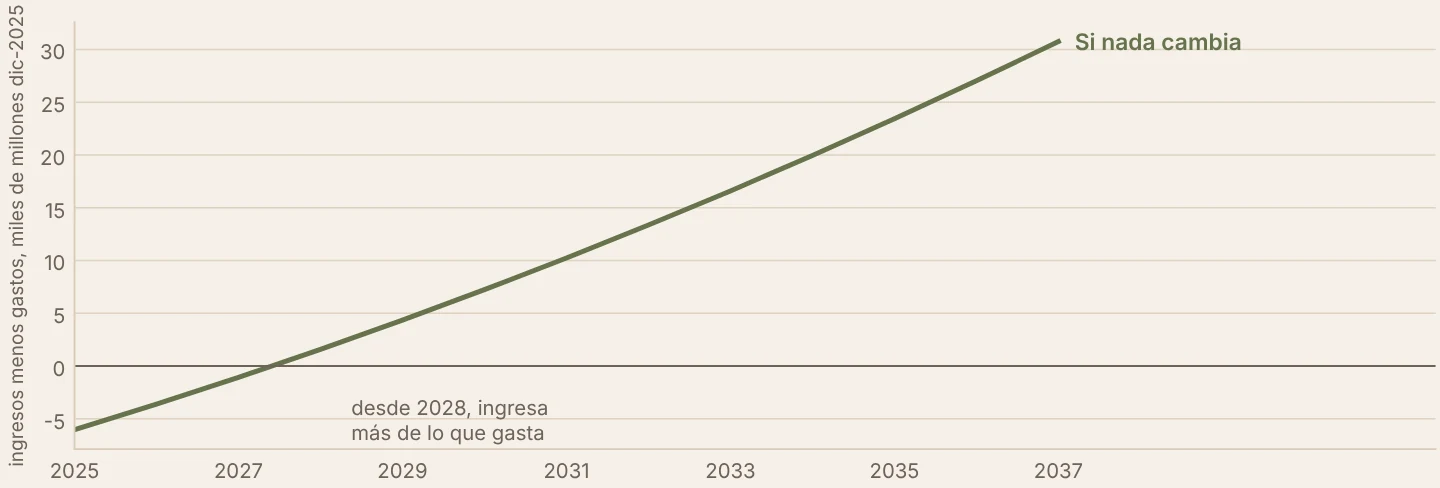
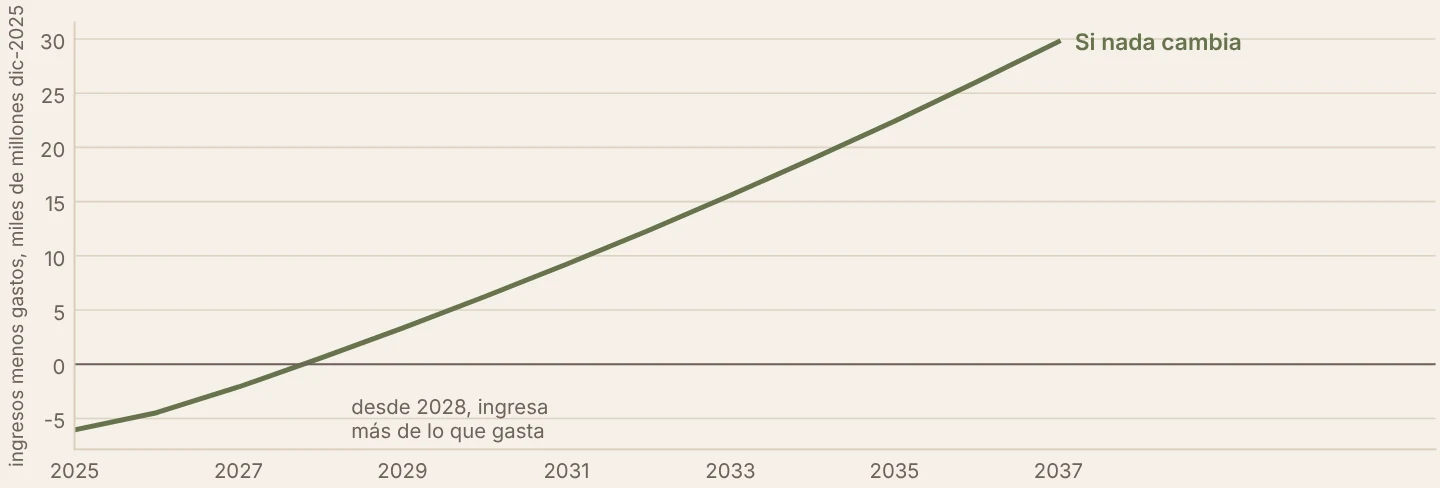
WIP: gráfico 13 de la web rehecho con los agentes desde 2026; script para rehacer el orden de párrafos de la web
Claude-Session: https://claude.ai/code/session_017pn9PJUZgcXLmrQx99ghXY

diff --git a/trabajo/orden_18nov.py b/trabajo/orden_18nov.py
@@ -1,0 +1,81 @@
+"""Rehace «orden» (la lista que la web usa para mostrar párrafos, títulos, recuadros, fotos y cuadros) en los apartados
+donde ya no coincide con el texto. Desde el 17/11 (202be6a) los scripts que agregaron párrafos no tocaron «orden», y la web
+muestra sólo lo que está en «orden»: los párrafos nuevos no se veían y los títulos caían en otro párrafo.
+Método: alinea los párrafos de hoy con los de 46c68e2 (última versión coherente) por parecido de texto, en orden; un
+párrafo nuevo va detrás del párrafo viejo que lo precede, y antes de los recuadros, fotos y cuadros que seguían a ese
+párrafo. Un párrafo nuevo es título (h3) si es corto y no termina en puntuación, como hace la web cuando no hay «orden».
+Uso: python3 -I trabajo/orden_18nov.py [--aplicar]   (sin --aplicar sólo muestra)
+Re-ejecutable: sólo toca los apartados incoherentes."""
+import json, re, subprocess, sys, difflib
+from pathlib import Path
+
+R = Path(__file__).resolve().parent.parent
+F = R / 'proyecto/web/data/programa.json'
+BASE = '46c68e2'
+SOLO_CUADROS = {'6.3', '6.4', '6.5'}  # orden de sólo cuadros, a propósito
+
+def parr(e): return e['texto'].split('\n\n')
+def coherente(e):
+    o = e.get('orden') or []
+    if not o or e['id'] in SOLO_CUADROS: return True
+    return sorted(x[1] for x in o if x[0] in ('p', 'h3')) == list(range(len(parr(e))))
+def titulo(t): return len(t) < 110 and '\n' not in t and not re.search(r'[.:;!?»”)]$', t)
+def sim(a, b): return difflib.SequenceMatcher(None, a, b, autojunk=False).ratio()
+
+def alinear(viejos, nuevos):
+    """m[i_nuevo] = i_viejo o None, monótono."""
+    m, j = [], 0
+    for t in nuevos:
+        best = None
+        for k in range(j, min(j + 4, len(viejos))):
+            r = sim(t, viejos[k])
+            if r >= 0.55 and (best is None or r > best[1]): best = (k, r)
+        if best: m.append(best[0]); j = best[0] + 1
+        else: m.append(None)
+    return m
+
+def rehacer(e, v):
+    pv, pn, ov = parr(v), parr(e), v['orden']
+    m = alinear(pv, pn)
+    tipo_v = {x[1]: x[0] for x in ov if x[0] in ('p', 'h3')}
+    # lo que no es texto, colgado del último párrafo viejo que lo precede (-1 = al principio)
+    colgado, ult = {}, -1
+    for x in ov:
+        if x[0] in ('p', 'h3'): ult = x[1]
+        else: colgado.setdefault(ult, []).append(x)
+    viejo_a_nuevo = {k: i for i, k in enumerate(m) if k is not None}
+    out = list(colgado.get(-1, []))
+    pend = []  # cosas colgadas de un párrafo viejo, que salen después de los párrafos nuevos que lo siguen
+    for i, k in enumerate(m):
+        if k is not None:
+            out += pend; pend = []
+            out.append([tipo_v.get(k, 'p'), i])
+            pend = list(colgado.get(k, []))
+        else:
+            out.append(['h3' if titulo(pn[i]) else 'p', i])
+    out += pend
+    # cosas colgadas de párrafos viejos que ya no existen
+    for k, xs in colgado.items():
+        if k != -1 and k not in viejo_a_nuevo: out += xs
+    return out, m
+
+viejo = {e['id']: e for e in json.loads(subprocess.run(['git', '-C', str(R), 'show', f'{BASE}:proyecto/web/data/programa.json'],
+                                                       capture_output=True, text=True, check=True).stdout)}
+d = json.load(open(F, encoding='utf-8'))
+cambios = 0
+for e in d:
+    if coherente(e): continue
+    v = viejo.get(e['id'])
+    if not v or not v.get('orden'):
+        print('SIN BASE', e['id']); continue
+    o, m = rehacer(e, v)
+    nuevos = [i for i, k in enumerate(m) if k is None]
+    print(f"{e['id']}: {len(parr(v))} -> {len(parr(e))} párrafos; nuevos {nuevos}; borrados "
+          f"{sorted(set(range(len(parr(v)))) - set(k for k in m if k is not None))}")
+    for i in nuevos:
+        print('   +', [x[0] for x in o if x[0] in ('p', 'h3') and x[1] == i][0], i, parr(e)[i][:90])
+    e['orden'] = o; cambios += 1
+    assert coherente(e), e['id']
+if '--aplicar' in sys.argv and cambios:
+    json.dump(d, open(F, 'w', encoding='utf-8'), ensure_ascii=False, indent=1)
+    print('aplicado en', cambios, 'apartados')
